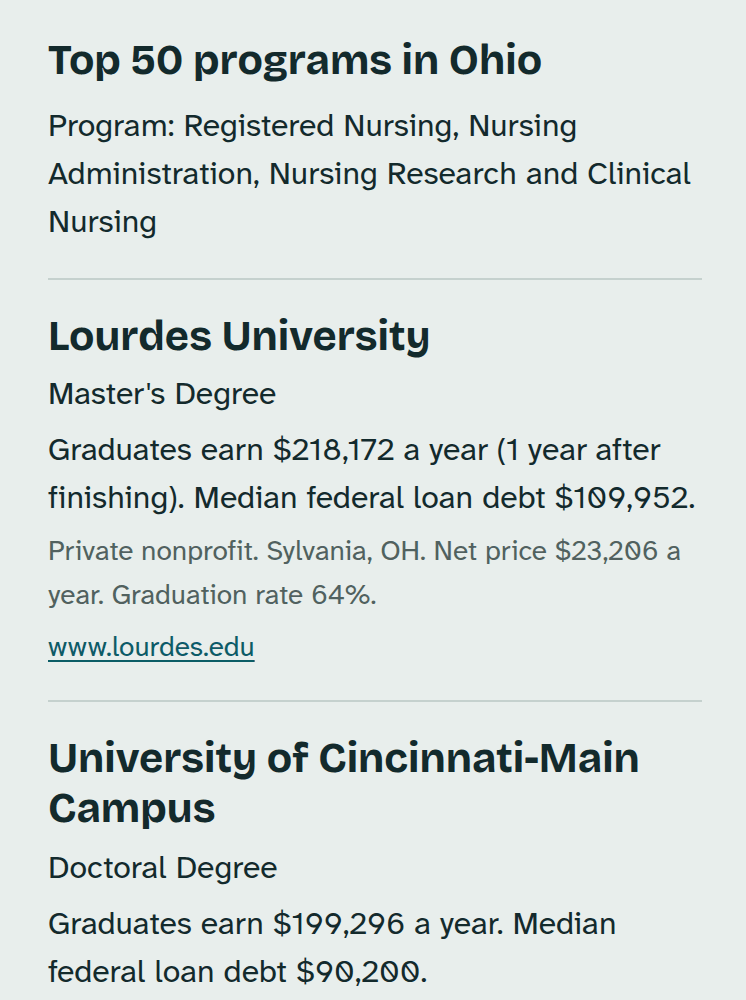
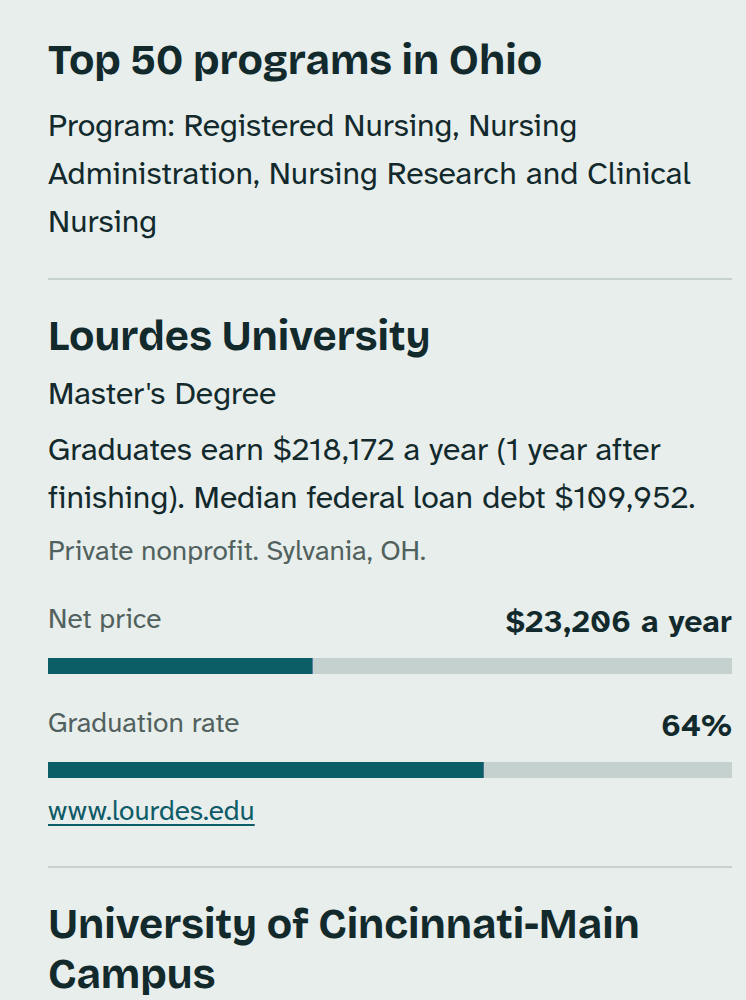
docs: ui-color-and-data built; verification results; new screenshots
Spec ticked with the production sweep (10 pages x 3 widths, zero errors,
CLS <= 0.01) and what changed while building. DESIGN.md describes the
.band remap and where bars appear. Home screenshots re-taken from the
production build (career shows the pay bar).

Changed region(s): [[0.0617, 0.713, 0.9866, 1.0], [0.0617, 0.589, 0.9866, 0.682], [0.5858, 0.527, 0.9249, 0.558]]

diff --git a/docs/specs/ui-color-and-data.md b/docs/specs/ui-color-and-data.md
@@ -1,6 +1,6 @@
 # Spec: Bolder color and visible data
 
-- Status: approved (2026-10-04, owner approved the plan; decision 0011)
+- Status: built (2026-10-04; decision 0011)
 
 ## Goal
 Make Stepwell feel less flat by using Water and Stone at full strength
@@ -13,36 +13,55 @@ to stand out and be easy to compare, so I can tell options apart at a glance.
 
 ## Acceptance criteria
 Frame
-- [ ] Header marks the current section: 4px `primary` bar and `aria-current="page"`.
-- [ ] Wordmark has a small custom SVG mark (stepped blocks) beside "Stepwell".
-- [ ] Footer on `foreground` with `surface` text and links.
+- [x] Header marks the current section: 4px `primary` bar and `aria-current="page"`.
+- [x] Wordmark has a small custom SVG mark (stepped blocks) beside "Stepwell".
+- [x] Footer on `foreground` with `surface` text and links.
 
 Bands
-- [ ] Home, careers, a career, colleges, scholarships, internships, programs,
+- [x] Home, careers, a career, colleges, scholarships, internships, programs,
       interest quiz and plan show their title area on a full-width `primary` band.
-- [ ] Inside bands: text `surface`, secondary text `border-subtle`, focus
+- [x] Inside bands: text `surface`, secondary text `border-subtle`, focus
       outline `surface`, buttons use the band variant.
-- [ ] Each of those pages' loading skeleton has the same band, and CLS stays 0.
-- [ ] The career band shows median pay and the outlook name.
+- [x] Each of those pages' loading skeleton has the same band, and CLS stays 0.
+- [x] The career band shows median pay and the outlook name.
 
 Home
-- [ ] Headline, search and the 3D stepwell share the band; the scene is above
+- [x] Headline, search and the 3D stepwell share the band; the scene is above
       the fold at 1280x900. Choosing a slab still works without JavaScript.
 
 Data graphics
-- [ ] Career "Pay and outlook" shows a range bar (low to high, median tick)
+- [x] Career "Pay and outlook" shows a range bar (low to high, median tick)
       for annual pay.
-- [ ] Career search rows show median pay as a bold figure with a mini bar.
-- [ ] College rows show labeled meters: all four from 640px, graduation rate
+- [x] Career search rows show median pay as a bold figure with a mini bar.
+- [x] College rows show labeled meters: all four from 640px, graduation rate
       and net price under 640px.
-- [ ] Bars use fixed caps: pay $200,000, earnings $150,000, debt $100,000,
+- [x] Bars use fixed caps: pay $200,000, earnings $150,000, debt $100,000,
       net price $60,000, graduation rate 100%; over the cap the bar is full.
-- [ ] Bars are `aria-hidden`; the number is always printed beside them.
-- [ ] `src/lib/scale.ts` has a test.
+- [x] Bars are `aria-hidden`; the number is always printed beside them.
+- [x] `src/lib/scale.ts` has a test.
 
 Everywhere
-- [ ] Zero CSP and console errors; no sideways scroll at 320, 390, 1280.
-- [ ] Every changed page checked against AVOID.md.
+- [x] Zero CSP and console errors; no sideways scroll at 320, 390, 1280.
+- [x] Every changed page checked against AVOID.md.
+
+## Result
+Checked on a production build: 10 pages (home, careers search, a career,
+colleges, scholarships, internships, programs, quiz, plan, sign-in) at 320,
+390 and 1280px: no sideways scroll, zero console or CSP errors, layout
+shift at most 0.01. The home scene's water ends at 510px on a 1280x900
+screen. Slabs switch by click and arrow keys; their focus outline on the
+band is 3px `surface`. `npm run check`: 193 tests pass.
+
+Changes from the plan while building:
+- No separate `band.tsx` or `band` button kind: `<Band>` lives in
+  `src/components/page.tsx` (it shares the widths), and `.band` in
+  `globals.css` remaps links, muted text, focus, primary buttons, errors
+  and skeleton blocks, so forms need no new props.
+- The career page's path moved to a side column from 1024px (the page
+  was a narrow column with empty sides).
+- College meters are "label ... value" on one line with the bar below,
+  which reads better at 320px than label, bar and value on one line.
+- `netPriceText` and `rateText` lost their last callers and were removed.
 
 ## Data
 No new data or tables. Bars read values pages already load.

diff --git a/docs/design/DESIGN.md b/docs/design/DESIGN.md
@@ -265,15 +265,18 @@ programs, interest quiz, plan). Form, legal and account pages have none.
   (4.83:1, never `muted`), links `surface` underlined with `highlight` on
   hover, focus outline `surface`. `highlight` is 4.49:1 on primary, so only
   fills and large marks, never small text.
-- Buttons inside a band use the `band` kind: `surface` fill, `foreground`
-  text, `foreground` stone edge. Inputs keep their `surface` fill.
+- Primary buttons inside a band turn `surface` with `foreground` text (and
+  `foreground` on hover), keeping their stone edge. Inputs keep their
+  `surface` fill. Errors inside a band are bold `surface` text with the
+  field outlined in `highlight` (accent red fails on teal). All of this is
+  `.band` in `globals.css`, so components need no band props.
 - At most one band per page, always at the top. Its loading skeleton has
   the same band.
 
 ### Data graphics
 Small bars that sketch a number next to it, so students can compare at a
 glance.
-- `<Meter>` (`src/components/meter.tsx`): inline SVG, 8px tall, track
+- `<Meter>` (`src/components/meter.tsx`): inline SVG, an 8px bar, track
   `border-subtle`, fill `primary`, radius 0. A range variant draws low to
   high with a 2px `foreground` tick at the median.
 - Sized with SVG attributes, not `style=` (the CSP blocks inline styles).
@@ -282,6 +285,11 @@ glance.
 - Fixed scales (`src/lib/scale.ts`), the same on every page: pay $200,000 a
   year, graduates' earnings $150,000, loan debt $100,000, net price $60,000,
   graduation rate 100%. Over the cap the bar is full; the number stays exact.
+- Where: career "Pay and outlook" (range, with "$0" and "$200,000" under
+  it), career search rows (median pay figure and bar, beside the title from
+  640px), college rows (earnings, debt, net price, graduation rate as
+  "label ... value" with the bar below; phones show net price and graduation
+  rate, earnings and debt stay a sentence there).
 - Bars don't animate.
 
 ### Panels and lists

diff --git a/docs/PROGRESS.md b/docs/PROGRESS.md
@@ -32,6 +32,20 @@ Newest entries at the top. Keep each entry short.
       own judgment; easy to change in one migration)
 
 ## Log
+### 2026-10-04: Teal bands, dark footer and data bars (spec ui-color-and-data)
+- Owner found the UI dull; chose "bolder, same palette" plus "data you can
+  see" on all pages (decision 0011).
+- Browsing pages start with a `primary` band (`<Band>` in page.tsx;
+  `.band` in globals.css remaps colors inside). Footer is dark stone; the
+  header marks the current section and has a step mark.
+- Home: headline, search and the 3D stepwell share the band, above the
+  fold. Career page: band shows median pay and outlook; path moves to a
+  side column from 1024px.
+- SVG bars on fixed scales (`lib/scale.ts`): career pay range, pay on
+  career rows, four meters on college rows.
+- Verified on a production build at 320/390/1280: no overflow, zero
+  console/CSP errors, CLS at most 0.01. 193 tests. Screenshots re-taken.
+
 ### 2026-10-04: Footer layout shift fixed; home screenshots re-taken
 - `<main>` is at least one screen tall (min-h-svh), so a short loading
   skeleton no longer pushes the footer: CLS 0 on six pages at 320/390/1280
